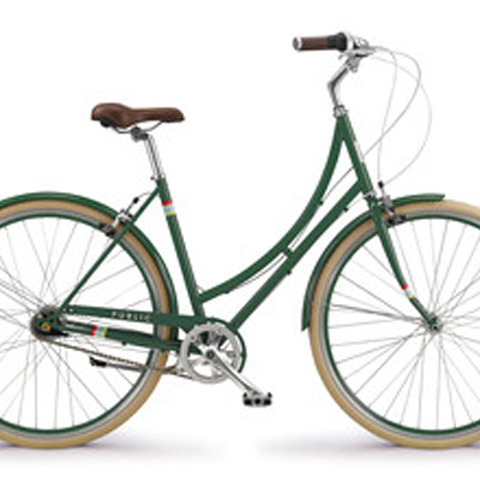
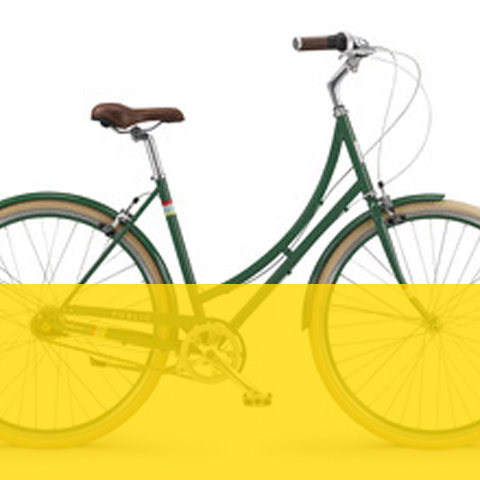
4.6 products slideshow

diff --git a/app/assets/stylesheets/static_pages.scss b/app/assets/stylesheets/static_pages.scss
@@ -3,3 +3,59 @@
 // You can use Sass (SCSS) here: http://sass-lang.com/
 
 
+/*Carousel*/
+
+.carousel-inner {
+	background-color: #000;
+}
+
+.carousel-caption {
+	
+	font-size: 40px;
+	font-kerning: normal !important;
+	text-rendering: optimizeLegibility;
+	text-align: left;
+	text-transform: uppercase;
+	right: 5%;
+	left: 55%;
+	top: 5%;
+	text-shadow: none;
+	display: inline;
+	color: #ffffff;
+}
+.carousel-control {
+	background-image: none !important;
+	text-shadow: none;
+	color: #fff !important;
+	opacity: 100;
+	width: 7%;
+}
+
+.carousel-control:hover, .carousel-control:focus {
+	background-color: rgba(0,0,0,0);
+	color: #fff;
+	opacity: 100;
+}
+
+.carousel-inner > .item > a > img {
+	width: 50%;
+}
+
+.carousel-indicators {
+	bottom: -60px;
+}
+
+.carousel-indicators > li {
+	border: 0;
+	border-radius: 0;
+	background-color: #999;
+	width: 12px;
+	height: 12px;
+	margin: 0;
+}
+
+.carousel-indicators > .active {
+	background-color: #000;
+}
+
+

diff --git a/app/controllers/static_pages_controller.rb b/app/controllers/static_pages_controller.rb
@@ -2,7 +2,7 @@ class StaticPagesController < ApplicationController
 	def index
 	end
   def landing_page    
-    @products = Product.limit(1)
+    @products = Product.limit(2)
 
   end
 end
